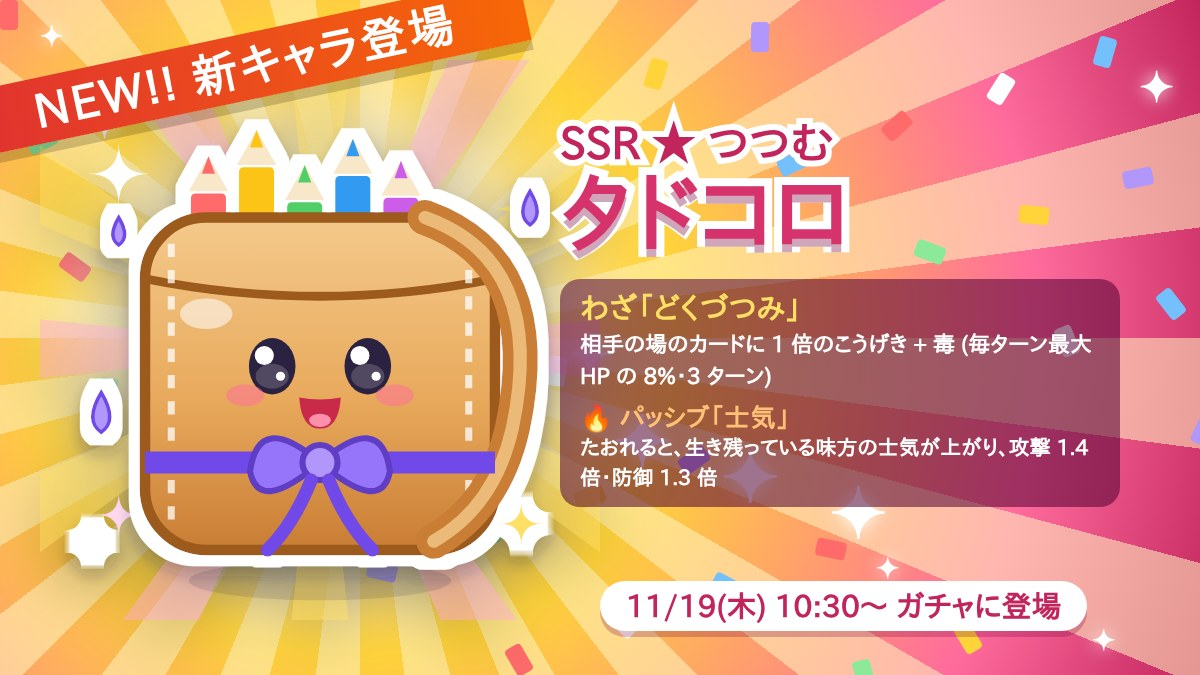
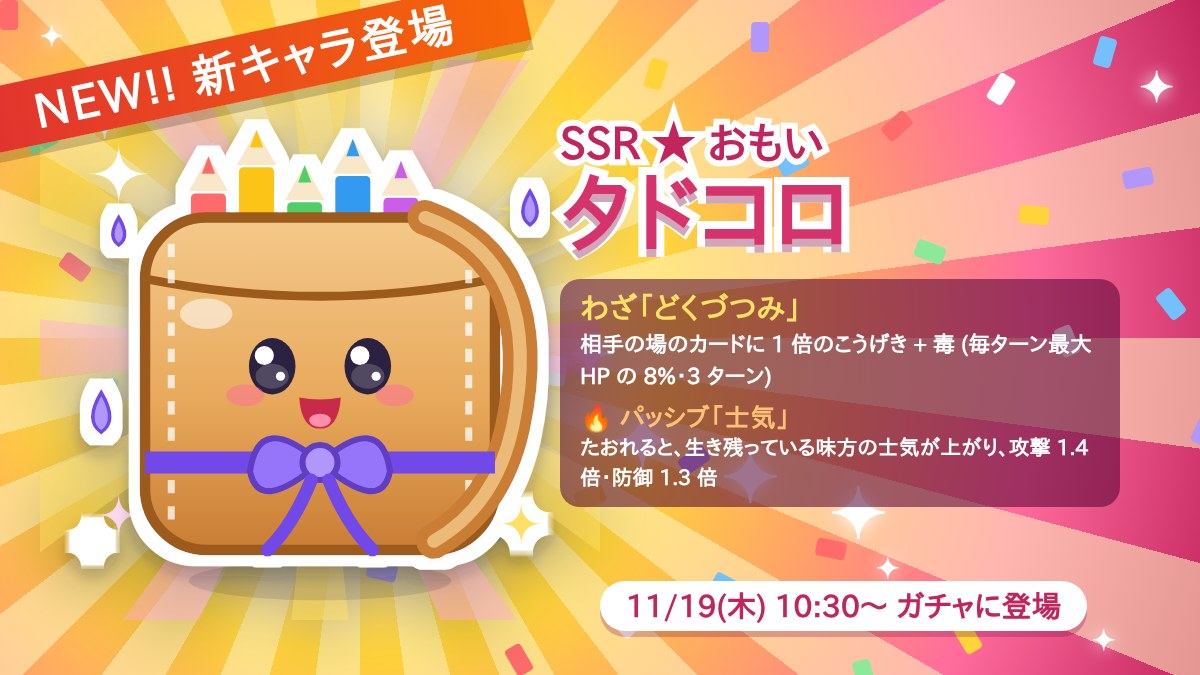
カードゲーム: タドコロのタイプを「おもい」に (告知画像も作り直し)
Claude-Session: https://claude.ai/code/session_0131LAB3VBSEDYy6z21kYLHB

Changed region(s): [[0.5858, 0.1556, 0.7092, 0.2489]]

diff --git a/public/cards-art.js b/public/cards-art.js
@@ -288,7 +288,7 @@
         <path d="M100,40Q108,32 116,22" stroke="#fff" stroke-width="2" stroke-dasharray="1 4" stroke-linecap="round" fill="none"/>
         ${face(60, 62, { eyes: 'star', mouth: 'open', s: 0.95, iris: '#4c2a85' })}`;
       },
-      // タドコロ (SSR・つつむ): 色えんぴつを包むキャンバス地のペンロール。ひもでくるっと巻いて、元気に笑う
+      // タドコロ (SSR・おもい): 色えんぴつを包むキャンバス地のペンロール。ひもでくるっと巻いて、元気に笑う
       tadokoro: () => {
         const pen = (x, c, h) => `<rect x="${x}" y="${30 - h}" width="9" height="${h + 10}" rx="1.5" fill="${c}" stroke="#fff" stroke-width="1"/><path d="M${x},${30 - h}L${x + 4.5},${22 - h}L${x + 9},${30 - h}Z" fill="#f8e7c9"/><path d="M${x + 3},${26 - h}L${x + 4.5},${22 - h}L${x + 6},${26 - h}Z" fill="${c}"/>`;
         const drop = (x, y, s) => `<path d="M${x},${y}q${3 * s},${5 * s} 0,${7 * s}q${-3 * s},${-2 * s} 0,${-7 * s}z" fill="#b197fc" stroke="#7048e8" stroke-width=".8"/>`;

diff --git a/cards.js b/cards.js
@@ -61,7 +61,7 @@ const CARD_LIST = [
   ['chalk', '伝説の黒板竜', '🐉', 'SSR', 'heavy', 67, 14, 12, 7, 'drain'],
   ['case', '虹色ペンケース姫', '🌈', 'SSR', 'wrap', 63, 16, 11, 15, 'barrier'],
   ['scissors', '疾風剣士ハサミ丸', '✂', 'SSR', 'cut', 54, 15, 6.9, 17, 'sweep'], // 2026-11-18 10:25 (日本時間) 登場
-  ['tadokoro', 'タドコロ', '🎒', 'SSR', 'wrap', 74, 20, 14, 12, 'venom'], // 2026-11-19 10:30 (日本時間) 登場。パッシブ「士気」
+  ['tadokoro', 'タドコロ', '🎒', 'SSR', 'heavy', 74, 20, 14, 12, 'venom'], // 2026-11-19 10:30 (日本時間) 登場。パッシブ「士気」
   ['star', '星キャンディー', '🍬', 'MR', 'wrap', 80, 19, 13, 13, 'starlight'], // MR: 期間限定クエストのクリア報酬 (ガチャには出ない)
 ];
 // ガチャに出ないレア度 (クエストの報酬など) の能力の倍率

diff --git a/public/index.html b/public/index.html
@@ -226,7 +226,7 @@
   </div>
 </div>
 
-<script src="/cards-art.js?v=8"></script>
+<script src="/cards-art.js?v=9"></script>
 <script src="/app.js?v=73"></script>
 </body>
 </html>
